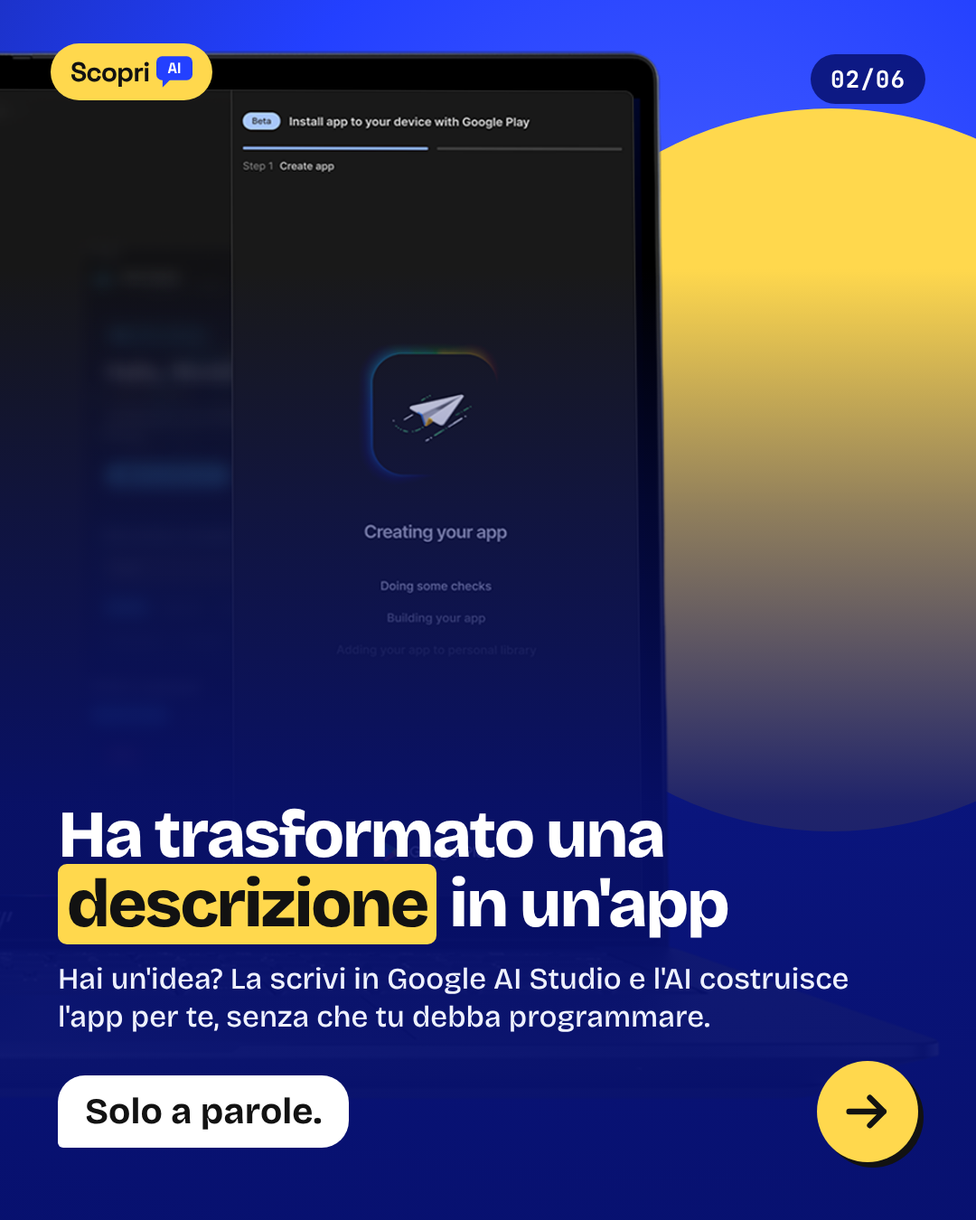
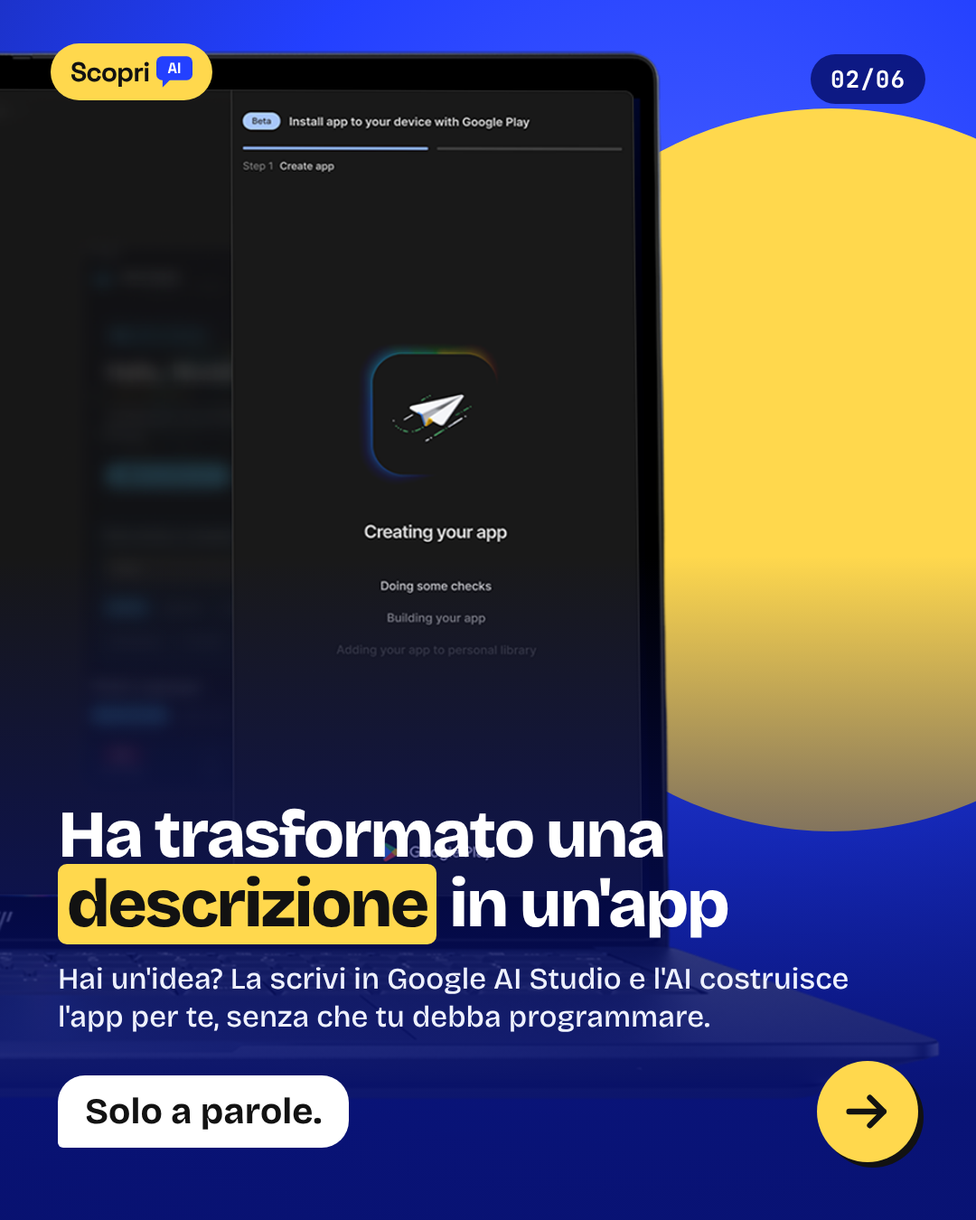
Slide Google Play: dissolvenza più in basso (versione del canvas) e orologio visibile
Claude-Session: https://claude.ai/code/session_01BmuNVeuFM4PWyoCHQz14QK

diff --git a/archivio/2026-10-15-news-lampo-google-play-app-ai/bozza/EB4-usa-18.dc.html b/archivio/2026-10-15-news-lampo-google-play-app-ai/bozza/EB4-usa-18.dc.html
@@ -11,7 +11,7 @@
 <link href="https://fonts.googleapis.com/css2?family=Space+Grotesk:wght@400;500;700&amp;family=Bricolage+Grotesque:wght@400;500;700;800&amp;family=JetBrains+Mono:wght@500;700&amp;display=swap" rel="stylesheet">
 <style>body{margin:0}</style>
 </helmet>
-<div style="width:1080px;height:1350px;position:relative;overflow:hidden;background:#2340FF;color:#FFFFFF;font-family:'Bricolage Grotesque',sans-serif;"><div style="position:absolute;left:0;top:0;width:1080px;height:1350px;overflow:hidden;background:radial-gradient(circle at 70% 30%, #4B63FF 0%, #2340FF 45%, #14238F 100%)"><div style="position:absolute;left:-300px;top:-100px;width:800px;height:800px;border-radius:50%;background:#FFD84D"></div><img src="img/PersonalApps_desktop_16x9_Static.png" alt="Google AI Studio che crea un'app, con la scritta Google Play" style="display:block;position:absolute;left:-2120px;top:140px;width:3648px;height:2052px;transform:rotate(0deg)"></div><div style="position:absolute;left:0;top:0;width:1080px;height:1350px;background:linear-gradient(to top, rgba(7,16,110,.97) 0%, rgba(7,16,110,.9) 34%, rgba(7,16,110,.45) 58%, rgba(7,16,110,0) 78%)"></div><div style="position:absolute;top:48px;left:56px;display:flex;background:#FFFFFF;padding:12px 22px;border-radius:999px"><div style="display:flex;align-items:center;gap:8px;font-size:30px;font-weight:700;letter-spacing:-1px;font-family:'Space Grotesk',sans-serif;color:#121212;">Scopri<svg width="40" height="35" viewBox="0 0 700 600" aria-hidden="true"><rect width="700" height="460" rx="110" fill="#2340FF"></rect><polygon points="120,440 120,600 280,440" fill="#2340FF"></polygon><text x="350" y="235" text-anchor="middle" dominant-baseline="central" font-family="Space Grotesk" font-weight="700" font-size="290" fill="#FFFFFF">AI</text></svg></div></div><div style="position:absolute;top:60px;right:56px;background:rgba(7,16,110,.85);padding:10px 22px;border-radius:999px"><div style="font-family:'JetBrains Mono',monospace;font-weight:700;font-size:26px;color:#FFFFFF;letter-spacing:1px">04/06</div></div><div style="position:absolute;left:64px;right:64px;bottom:64px"><div style="font-size:150px;font-weight:800;letter-spacing:-6px;line-height:.9;color:#FFD84D;margin-bottom:12px">18+ · USA</div><h2 style="margin:0;font-size:64px;font-weight:800;line-height:1.04;letter-spacing:-2.5px">Per ora è solo per <span style="background:#FFD84D;color:#121212;padding:0 10px;border-radius:10px;-webkit-box-decoration-break:clone;box-decoration-break:clone">maggiorenni negli USA</span></h2><p style="margin:22px 0 0;font-size:33px;line-height:1.28;font-weight:500;color:#EEF1FF;width:900px">All'inizio possono provarla soltanto gli adulti che vivono negli Stati Uniti. Per l'Italia non c'è ancora una data.</p><div style="display:flex;justify-content:space-between;align-items:center;margin-top:28px"><div style="background:#FFFFFF;color:#121212;padding:16px 30px;border-radius:30px 30px 30px 6px;font-size:40px;font-weight:700;white-space:nowrap;">Poi tocca a noi.</div><div style="width:112px;height:112px;border-radius:50%;background:#FFD84D;display:flex;align-items:center;justify-content:center;box-shadow:6px 6px 0 #121212"><svg width="56" height="56" viewBox="0 0 44 44" aria-hidden="true"><path d="M6 22h30M24 10l12 12-12 12" fill="none" stroke="#121212" stroke-width="5" stroke-linecap="round" stroke-linejoin="round"></path></svg></div></div></div></div>
+<div style="width:1080px;height:1350px;position:relative;overflow:hidden;background:#2340FF;color:#FFFFFF;font-family:'Bricolage Grotesque',sans-serif;"><div style="position:absolute;left:0;top:0;width:1080px;height:1350px;overflow:hidden;background:radial-gradient(circle at 70% 30%, #4B63FF 0%, #2340FF 45%, #14238F 100%)"><div style="position:absolute;left:-300px;top:-100px;width:800px;height:800px;border-radius:50%;background:#FFD84D"></div><img src="img/PersonalApps_desktop_16x9_Static.png" alt="Google AI Studio che crea un'app, con la scritta Google Play" style="display:block;position:absolute;left:-2120px;top:140px;width:3648px;height:2052px;transform:rotate(0deg)"></div><div style="position: absolute; left: 0px; top: 306px; width: 1080px; height: 1350px; background: linear-gradient(to top, rgba(7,16,110,.97) 0%, rgba(7,16,110,.9) 34%, rgba(7,16,110,.45) 58%, rgba(7,16,110,0) 78%)"></div><div style="position:absolute;top:48px;left:56px;display:flex;background:#FFFFFF;padding:12px 22px;border-radius:999px"><div style="display:flex;align-items:center;gap:8px;font-size:30px;font-weight:700;letter-spacing:-1px;font-family:'Space Grotesk',sans-serif;color:#121212;">Scopri<svg width="40" height="35" viewBox="0 0 700 600" aria-hidden="true"><rect width="700" height="460" rx="110" fill="#2340FF"></rect><polygon points="120,440 120,600 280,440" fill="#2340FF"></polygon><text x="350" y="235" text-anchor="middle" dominant-baseline="central" font-family="Space Grotesk" font-weight="700" font-size="290" fill="#FFFFFF">AI</text></svg></div></div><div style="position:absolute;top:60px;right:56px;background:rgba(7,16,110,.85);padding:10px 22px;border-radius:999px"><div style="font-family:'JetBrains Mono',monospace;font-weight:700;font-size:26px;color:#FFFFFF;letter-spacing:1px">04/06</div></div><div style="position:absolute;left:64px;right:64px;bottom:64px"><div style="font-size:150px;font-weight:800;letter-spacing:-6px;line-height:.9;color:#FFD84D;margin-bottom:12px">18+ · USA</div><h2 style="margin:0;font-size:64px;font-weight:800;line-height:1.04;letter-spacing:-2.5px">Per ora è solo per <span style="background:#FFD84D;color:#121212;padding:0 10px;border-radius:10px;-webkit-box-decoration-break:clone;box-decoration-break:clone">maggiorenni negli USA</span></h2><p style="margin:22px 0 0;font-size:33px;line-height:1.28;font-weight:500;color:#EEF1FF;width:900px">All'inizio possono provarla soltanto gli adulti che vivono negli Stati Uniti. Per l'Italia non c'è ancora una data.</p><div style="display:flex;justify-content:space-between;align-items:center;margin-top:28px"><div style="background:#FFFFFF;color:#121212;padding:16px 30px;border-radius:30px 30px 30px 6px;font-size:40px;font-weight:700;white-space:nowrap;">Poi tocca a noi.</div><div style="width:112px;height:112px;border-radius:50%;background:#FFD84D;display:flex;align-items:center;justify-content:center;box-shadow:6px 6px 0 #121212"><svg width="56" height="56" viewBox="0 0 44 44" aria-hidden="true"><path d="M6 22h30M24 10l12 12-12 12" fill="none" stroke="#121212" stroke-width="5" stroke-linecap="round" stroke-linejoin="round"></path></svg></div></div></div></div>
 </x-dc>
 <script type="text/x-dc" data-dc-script data-props='{"$preview":{"width":1080,"height":1350}}'>
 class Component extends DCLogic {

diff --git a/archivio/2026-10-15-news-lampo-google-play-app-ai/bozza/EB5-condivisione.dc.html b/archivio/2026-10-15-news-lampo-google-play-app-ai/bozza/EB5-condivisione.dc.html
@@ -11,7 +11,7 @@
 <link href="https://fonts.googleapis.com/css2?family=Space+Grotesk:wght@400;500;700&amp;family=Bricolage+Grotesque:wght@400;500;700;800&amp;family=JetBrains+Mono:wght@500;700&amp;display=swap" rel="stylesheet">
 <style>body{margin:0}</style>
 </helmet>
-<div style="width:1080px;height:1350px;position:relative;overflow:hidden;background:#FFD84D;color:#121212;font-family:'Bricolage Grotesque',sans-serif;"><div style="position:absolute;left:0;top:0;width:1080px;height:1350px;overflow:hidden;background:radial-gradient(circle at 70% 30%, #FFE680 0%, #FFD84D 50%, #F2BC1B 100%)"><div style="position:absolute;left:620px;top:-200px;width:800px;height:800px;border-radius:50%;background:#2340FF"></div><img src="img/PersonalApps_mobile_1X1_Static.png" alt="Lo smartphone con la libreria personale di Google Play" style="display:block;position:absolute;left:-324px;top:40px;width:1728px;height:1728px;transform:rotate(0deg)"></div><div style="position:absolute;left:0;top:0;width:1080px;height:1350px;background:linear-gradient(to top, rgba(255,216,77,.98) 0%, rgba(255,216,77,.96) 34%, rgba(255,216,77,.78) 58%, rgba(255,216,77,0) 78%)"></div><div style="position:absolute;top:48px;left:56px;display:flex;background:#FFFFFF;padding:12px 22px;border-radius:999px"><div style="display:flex;align-items:center;gap:8px;font-size:30px;font-weight:700;letter-spacing:-1px;font-family:'Space Grotesk',sans-serif;color:#121212;">Scopri<svg width="40" height="35" viewBox="0 0 700 600" aria-hidden="true"><rect width="700" height="460" rx="110" fill="#2340FF"></rect><polygon points="120,440 120,600 280,440" fill="#2340FF"></polygon><text x="350" y="235" text-anchor="middle" dominant-baseline="central" font-family="Space Grotesk" font-weight="700" font-size="290" fill="#FFFFFF">AI</text></svg></div></div><div style="position:absolute;top:60px;right:56px;background:#121212;padding:10px 22px;border-radius:999px"><div style="font-family:'JetBrains Mono',monospace;font-weight:700;font-size:26px;color:#FFFFFF;letter-spacing:1px">05/06</div></div><div style="position:absolute;left:64px;right:64px;bottom:64px"><div style="font-size:150px;font-weight:800;letter-spacing:-6px;line-height:.9;color:#2340FF;margin-bottom:12px">Presto</div><h2 style="margin:0;font-size:64px;font-weight:800;line-height:1.04;letter-spacing:-2.5px">Presto potrai <span style="background:#2340FF;color:#FFFFFF;padding:0 10px;border-radius:10px;-webkit-box-decoration-break:clone;box-decoration-break:clone">condividerla</span> con gli amici</h2><p style="margin:22px 0 0;font-size:33px;line-height:1.28;font-weight:500;color:#2A2A2A;width:900px">Google dice che la condivisione arriva nei prossimi mesi. Una data precisa non c'è ancora.</p><div style="display:flex;justify-content:space-between;align-items:center;margin-top:28px"><div style="background:#121212;color:#FFD84D;padding:16px 30px;border-radius:30px 30px 30px 6px;font-size:40px;font-weight:700;white-space:nowrap;">Nei prossimi mesi.</div><div style="width:112px;height:112px;border-radius:50%;background:#2340FF;display:flex;align-items:center;justify-content:center;box-shadow:6px 6px 0 #121212"><svg width="56" height="56" viewBox="0 0 44 44" aria-hidden="true"><path d="M6 22h30M24 10l12 12-12 12" fill="none" stroke="#FFFFFF" stroke-width="5" stroke-linecap="round" stroke-linejoin="round"></path></svg></div></div></div></div>
+<div style="width:1080px;height:1350px;position:relative;overflow:hidden;background:#FFD84D;color:#121212;font-family:'Bricolage Grotesque',sans-serif;"><div style="position:absolute;left:0;top:0;width:1080px;height:1350px;overflow:hidden;background:radial-gradient(circle at 70% 30%, #FFE680 0%, #FFD84D 50%, #F2BC1B 100%)"><div style="position:absolute;left:620px;top:-200px;width:800px;height:800px;border-radius:50%;background:#2340FF"></div><img src="img/PersonalApps_mobile_1X1_Static.png" alt="Lo smartphone con la libreria personale di Google Play" style="display:block;position:absolute;left:-324px;top:40px;width:1728px;height:1728px;transform:rotate(0deg)"></div><div style="position: absolute; left: 0px; top: 131px; width: 1080px; height: 1350px; background: linear-gradient(to top, rgba(255,216,77,.98) 0%, rgba(255,216,77,.96) 34%, rgba(255,216,77,.78) 58%, rgba(255,216,77,0) 78%)"></div><div style="position:absolute;top:48px;left:56px;display:flex;background:#FFFFFF;padding:12px 22px;border-radius:999px"><div style="display:flex;align-items:center;gap:8px;font-size:30px;font-weight:700;letter-spacing:-1px;font-family:'Space Grotesk',sans-serif;color:#121212;">Scopri<svg width="40" height="35" viewBox="0 0 700 600" aria-hidden="true"><rect width="700" height="460" rx="110" fill="#2340FF"></rect><polygon points="120,440 120,600 280,440" fill="#2340FF"></polygon><text x="350" y="235" text-anchor="middle" dominant-baseline="central" font-family="Space Grotesk" font-weight="700" font-size="290" fill="#FFFFFF">AI</text></svg></div></div><div style="position:absolute;top:60px;right:56px;background:#121212;padding:10px 22px;border-radius:999px"><div style="font-family:'JetBrains Mono',monospace;font-weight:700;font-size:26px;color:#FFFFFF;letter-spacing:1px">05/06</div></div><div style="position:absolute;left:64px;right:64px;bottom:64px"><div style="font-size:150px;font-weight:800;letter-spacing:-6px;line-height:.9;color:#2340FF;margin-bottom:12px">Presto</div><h2 style="margin:0;font-size:64px;font-weight:800;line-height:1.04;letter-spacing:-2.5px">Presto potrai <span style="background:#2340FF;color:#FFFFFF;padding:0 10px;border-radius:10px;-webkit-box-decoration-break:clone;box-decoration-break:clone">condividerla</span> con gli amici</h2><p style="margin:22px 0 0;font-size:33px;line-height:1.28;font-weight:500;color:#2A2A2A;width:900px">Google dice che la condivisione arriva nei prossimi mesi. Una data precisa non c'è ancora.</p><div style="display:flex;justify-content:space-between;align-items:center;margin-top:28px"><div style="background:#121212;color:#FFD84D;padding:16px 30px;border-radius:30px 30px 30px 6px;font-size:40px;font-weight:700;white-space:nowrap;">Nei prossimi mesi.</div><div style="width:112px;height:112px;border-radius:50%;background:#2340FF;display:flex;align-items:center;justify-content:center;box-shadow:6px 6px 0 #121212"><svg width="56" height="56" viewBox="0 0 44 44" aria-hidden="true"><path d="M6 22h30M24 10l12 12-12 12" fill="none" stroke="#FFFFFF" stroke-width="5" stroke-linecap="round" stroke-linejoin="round"></path></svg></div></div></div></div>
 </x-dc>
 <script type="text/x-dc" data-dc-script data-props='{"$preview":{"width":1080,"height":1350}}'>
 class Component extends DCLogic {

diff --git a/archivio/2026-10-15-news-lampo-google-play-app-ai/bozza/EB2-app.dc.html b/archivio/2026-10-15-news-lampo-google-play-app-ai/bozza/EB2-app.dc.html
@@ -11,7 +11,7 @@
 <link href="https://fonts.googleapis.com/css2?family=Space+Grotesk:wght@400;500;700&amp;family=Bricolage+Grotesque:wght@400;500;700;800&amp;family=JetBrains+Mono:wght@500;700&amp;display=swap" rel="stylesheet">
 <style>body{margin:0}</style>
 </helmet>
-<div style="width:1080px;height:1350px;position:relative;overflow:hidden;background:#2340FF;color:#FFFFFF;font-family:'Bricolage Grotesque',sans-serif;"><div style="position:absolute;left:0;top:0;width:1080px;height:1350px;overflow:hidden;background:radial-gradient(circle at 70% 30%, #4B63FF 0%, #2340FF 45%, #14238F 100%)"><div style="position:absolute;left:520px;top:120px;width:800px;height:800px;border-radius:50%;background:#FFD84D"></div><img src="img/PersonalApps_desktop_16x9_Static.png" alt="Google AI Studio che crea un'app, con la scritta Google Play" style="display:block;position:absolute;left:-1050px;top:40px;width:2100px;height:1181px;transform:rotate(0deg)"></div><div style="position:absolute;left:0;top:0;width:1080px;height:1350px;background:linear-gradient(to top, rgba(7,16,110,.97) 0%, rgba(7,16,110,.9) 34%, rgba(7,16,110,.45) 58%, rgba(7,16,110,0) 78%)"></div><div style="position:absolute;top:48px;left:56px;display:flex;background:#FFD84D;padding:12px 22px;border-radius:999px"><div style="display:flex;align-items:center;gap:8px;font-size:30px;font-weight:700;letter-spacing:-1px;font-family:'Space Grotesk',sans-serif;color:#121212;">Scopri<svg width="40" height="35" viewBox="0 0 700 600" aria-hidden="true"><rect width="700" height="460" rx="110" fill="#2340FF"></rect><polygon points="120,440 120,600 280,440" fill="#2340FF"></polygon><text x="350" y="235" text-anchor="middle" dominant-baseline="central" font-family="Space Grotesk" font-weight="700" font-size="290" fill="#FFFFFF">AI</text></svg></div></div><div style="position:absolute;top:60px;right:56px;background:rgba(7,16,110,.85);padding:10px 22px;border-radius:999px"><div style="font-family:'JetBrains Mono',monospace;font-weight:700;font-size:26px;color:#FFFFFF;letter-spacing:1px">02/06</div></div><div style="position:absolute;left:64px;right:64px;bottom:64px"><h2 style="margin:0;font-size:74px;font-weight:800;line-height:1.04;letter-spacing:-2.5px">Ha trasformato una <span style="background:#FFD84D;color:#121212;padding:0 10px;border-radius:10px;-webkit-box-decoration-break:clone;box-decoration-break:clone">descrizione</span> in un'app</h2><p style="margin:22px 0 0;font-size:33px;line-height:1.28;font-weight:500;color:#EEF1FF;width:900px">Hai un'idea? La scrivi in Google AI Studio e l'AI costruisce l'app per te, senza che tu debba programmare.</p><div style="display:flex;justify-content:space-between;align-items:center;margin-top:28px"><div style="background:#FFFFFF;color:#121212;padding:16px 30px;border-radius:30px 30px 30px 6px;font-size:40px;font-weight:700;white-space:nowrap;">Solo a parole.</div><div style="width:112px;height:112px;border-radius:50%;background:#FFD84D;display:flex;align-items:center;justify-content:center;box-shadow:6px 6px 0 #121212"><svg width="56" height="56" viewBox="0 0 44 44" aria-hidden="true"><path d="M6 22h30M24 10l12 12-12 12" fill="none" stroke="#121212" stroke-width="5" stroke-linecap="round" stroke-linejoin="round"></path></svg></div></div></div></div>
+<div style="width:1080px;height:1350px;position:relative;overflow:hidden;background:#2340FF;color:#FFFFFF;font-family:'Bricolage Grotesque',sans-serif;"><div style="position:absolute;left:0;top:0;width:1080px;height:1350px;overflow:hidden;background:radial-gradient(circle at 70% 30%, #4B63FF 0%, #2340FF 45%, #14238F 100%)"><div style="position:absolute;left:520px;top:120px;width:800px;height:800px;border-radius:50%;background:#FFD84D"></div><img src="img/PersonalApps_desktop_16x9_Static.png" alt="Google AI Studio che crea un'app, con la scritta Google Play" style="display:block;position:absolute;left:-1050px;top:40px;width:2100px;height:1181px;transform:rotate(0deg)"></div><div style="position: absolute; left: 0px; top: 318px; width: 1080px; height: 1350px; background: linear-gradient(to top, rgba(7,16,110,.97) 0%, rgba(7,16,110,.9) 34%, rgba(7,16,110,.45) 58%, rgba(7,16,110,0) 78%)"></div><div style="position:absolute;top:48px;left:56px;display:flex;background:#FFD84D;padding:12px 22px;border-radius:999px"><div style="display:flex;align-items:center;gap:8px;font-size:30px;font-weight:700;letter-spacing:-1px;font-family:'Space Grotesk',sans-serif;color:#121212;">Scopri<svg width="40" height="35" viewBox="0 0 700 600" aria-hidden="true"><rect width="700" height="460" rx="110" fill="#2340FF"></rect><polygon points="120,440 120,600 280,440" fill="#2340FF"></polygon><text x="350" y="235" text-anchor="middle" dominant-baseline="central" font-family="Space Grotesk" font-weight="700" font-size="290" fill="#FFFFFF">AI</text></svg></div></div><div style="position:absolute;top:60px;right:56px;background:rgba(7,16,110,.85);padding:10px 22px;border-radius:999px"><div style="font-family:'JetBrains Mono',monospace;font-weight:700;font-size:26px;color:#FFFFFF;letter-spacing:1px">02/06</div></div><div style="position:absolute;left:64px;right:64px;bottom:64px"><h2 style="margin:0;font-size:74px;font-weight:800;line-height:1.04;letter-spacing:-2.5px">Ha trasformato una <span style="background:#FFD84D;color:#121212;padding:0 10px;border-radius:10px;-webkit-box-decoration-break:clone;box-decoration-break:clone">descrizione</span> in un'app</h2><p style="margin:22px 0 0;font-size:33px;line-height:1.28;font-weight:500;color:#EEF1FF;width:900px">Hai un'idea? La scrivi in Google AI Studio e l'AI costruisce l'app per te, senza che tu debba programmare.</p><div style="display:flex;justify-content:space-between;align-items:center;margin-top:28px"><div style="background:#FFFFFF;color:#121212;padding:16px 30px;border-radius:30px 30px 30px 6px;font-size:40px;font-weight:700;white-space:nowrap;">Solo a parole.</div><div style="width:112px;height:112px;border-radius:50%;background:#FFD84D;display:flex;align-items:center;justify-content:center;box-shadow:6px 6px 0 #121212"><svg width="56" height="56" viewBox="0 0 44 44" aria-hidden="true"><path d="M6 22h30M24 10l12 12-12 12" fill="none" stroke="#121212" stroke-width="5" stroke-linecap="round" stroke-linejoin="round"></path></svg></div></div></div></div>
 </x-dc>
 <script type="text/x-dc" data-dc-script data-props='{"$preview":{"width":1080,"height":1350}}'>
 class Component extends DCLogic {

diff --git a/archivio/2026-10-15-news-lampo-google-play-app-ai/bozza/EB3-telefono.dc.html b/archivio/2026-10-15-news-lampo-google-play-app-ai/bozza/EB3-telefono.dc.html
@@ -11,7 +11,7 @@
 <link href="https://fonts.googleapis.com/css2?family=Space+Grotesk:wght@400;500;700&amp;family=Bricolage+Grotesque:wght@400;500;700;800&amp;family=JetBrains+Mono:wght@500;700&amp;display=swap" rel="stylesheet">
 <style>body{margin:0}</style>
 </helmet>
-<div style="width:1080px;height:1350px;position:relative;overflow:hidden;background:#FFD84D;color:#121212;font-family:'Bricolage Grotesque',sans-serif;"><div style="position:absolute;left:0;top:0;width:1080px;height:1350px;overflow:hidden;background:radial-gradient(circle at 70% 30%, #FFE680 0%, #FFD84D 50%, #F2BC1B 100%)"><div style="position:absolute;left:-300px;top:350px;width:760px;height:760px;border-radius:50%;background:#2340FF"></div><img src="img/PersonalApps_mobile_1X1_Static.png" alt="Lo smartphone con la libreria personale di Google Play" style="display:block;position:absolute;left:-480px;top:40px;width:1700px;height:1700px;transform:rotate(0deg)"></div><div style="position:absolute;left:0;top:0;width:1080px;height:1350px;background:linear-gradient(to top, rgba(255,216,77,.98) 0%, rgba(255,216,77,.96) 34%, rgba(255,216,77,.78) 58%, rgba(255,216,77,0) 78%)"></div><div style="position:absolute;top:48px;left:56px;display:flex;background:#FFFFFF;padding:12px 22px;border-radius:999px"><div style="display:flex;align-items:center;gap:8px;font-size:30px;font-weight:700;letter-spacing:-1px;font-family:'Space Grotesk',sans-serif;color:#121212;">Scopri<svg width="40" height="35" viewBox="0 0 700 600" aria-hidden="true"><rect width="700" height="460" rx="110" fill="#2340FF"></rect><polygon points="120,440 120,600 280,440" fill="#2340FF"></polygon><text x="350" y="235" text-anchor="middle" dominant-baseline="central" font-family="Space Grotesk" font-weight="700" font-size="290" fill="#FFFFFF">AI</text></svg></div></div><div style="position:absolute;top:60px;right:56px;background:#121212;padding:10px 22px;border-radius:999px"><div style="font-family:'JetBrains Mono',monospace;font-weight:700;font-size:26px;color:#FFFFFF;letter-spacing:1px">03/06</div></div><div style="position:absolute;left:64px;right:64px;bottom:64px"><h2 style="margin:0;font-size:74px;font-weight:800;line-height:1.04;letter-spacing:-2.5px">Ha messo l'app sul tuo <span style="background:#2340FF;color:#FFFFFF;padding:0 10px;border-radius:10px;-webkit-box-decoration-break:clone;box-decoration-break:clone">telefono</span></h2><p style="margin:22px 0 0;font-size:33px;line-height:1.28;font-weight:500;color:#2A2A2A;width:900px">L'app arriva in una sezione privata di Google Play: la vedi e la installi solo tu. Google non la controlla.</p><div style="display:flex;justify-content:space-between;align-items:center;margin-top:28px"><div style="background:#121212;color:#FFD84D;padding:16px 30px;border-radius:30px 30px 30px 6px;font-size:40px;font-weight:700;white-space:nowrap;">Solo tua.</div><div style="width:112px;height:112px;border-radius:50%;background:#2340FF;display:flex;align-items:center;justify-content:center;box-shadow:6px 6px 0 #121212"><svg width="56" height="56" viewBox="0 0 44 44" aria-hidden="true"><path d="M6 22h30M24 10l12 12-12 12" fill="none" stroke="#FFFFFF" stroke-width="5" stroke-linecap="round" stroke-linejoin="round"></path></svg></div></div></div></div>
+<div style="width:1080px;height:1350px;position:relative;overflow:hidden;background:#FFD84D;color:#121212;font-family:'Bricolage Grotesque',sans-serif;"><div style="position:absolute;left:0;top:0;width:1080px;height:1350px;overflow:hidden;background:radial-gradient(circle at 70% 30%, #FFE680 0%, #FFD84D 50%, #F2BC1B 100%)"><div style="position:absolute;left:-300px;top:350px;width:760px;height:760px;border-radius:50%;background:#2340FF"></div><img src="img/PersonalApps_mobile_1X1_Static.png" alt="Lo smartphone con la libreria personale di Google Play" style="display:block;position:absolute;left:-480px;top:40px;width:1700px;height:1700px;transform:rotate(0deg)"></div><div style="position: absolute; left: 0px; top: 311px; width: 1080px; height: 1350px; background: linear-gradient(to top, rgba(255,216,77,.98) 0%, rgba(255,216,77,.96) 34%, rgba(255,216,77,.78) 58%, rgba(255,216,77,0) 78%)"></div><div style="position:absolute;top:48px;left:56px;display:flex;background:#FFFFFF;padding:12px 22px;border-radius:999px"><div style="display:flex;align-items:center;gap:8px;font-size:30px;font-weight:700;letter-spacing:-1px;font-family:'Space Grotesk',sans-serif;color:#121212;">Scopri<svg width="40" height="35" viewBox="0 0 700 600" aria-hidden="true"><rect width="700" height="460" rx="110" fill="#2340FF"></rect><polygon points="120,440 120,600 280,440" fill="#2340FF"></polygon><text x="350" y="235" text-anchor="middle" dominant-baseline="central" font-family="Space Grotesk" font-weight="700" font-size="290" fill="#FFFFFF">AI</text></svg></div></div><div style="position:absolute;top:60px;right:56px;background:#121212;padding:10px 22px;border-radius:999px"><div style="font-family:'JetBrains Mono',monospace;font-weight:700;font-size:26px;color:#FFFFFF;letter-spacing:1px">03/06</div></div><div style="position:absolute;left:64px;right:64px;bottom:64px"><h2 style="margin:0;font-size:74px;font-weight:800;line-height:1.04;letter-spacing:-2.5px">Ha messo l'app sul tuo <span style="background:#2340FF;color:#FFFFFF;padding:0 10px;border-radius:10px;-webkit-box-decoration-break:clone;box-decoration-break:clone">telefono</span></h2><p style="margin:22px 0 0;font-size:33px;line-height:1.28;font-weight:500;color:#2A2A2A;width:900px">L'app arriva in una sezione privata di Google Play: la vedi e la installi solo tu. Google non la controlla.</p><div style="display:flex;justify-content:space-between;align-items:center;margin-top:28px"><div style="background:#121212;color:#FFD84D;padding:16px 30px;border-radius:30px 30px 30px 6px;font-size:40px;font-weight:700;white-space:nowrap;">Solo tua.</div><div style="width:112px;height:112px;border-radius:50%;background:#2340FF;display:flex;align-items:center;justify-content:center;box-shadow:6px 6px 0 #121212"><svg width="56" height="56" viewBox="0 0 44 44" aria-hidden="true"><path d="M6 22h30M24 10l12 12-12 12" fill="none" stroke="#FFFFFF" stroke-width="5" stroke-linecap="round" stroke-linejoin="round"></path></svg></div></div></div></div>
 </x-dc>
 <script type="text/x-dc" data-dc-script data-props='{"$preview":{"width":1080,"height":1350}}'>
 class Component extends DCLogic {

diff --git a/archivio/2026-10-15-news-lampo-google-play-app-ai/bozza/EB1-copertina.dc.html b/archivio/2026-10-15-news-lampo-google-play-app-ai/bozza/EB1-copertina.dc.html
@@ -11,7 +11,7 @@
 <link href="https://fonts.googleapis.com/css2?family=Space+Grotesk:wght@400;500;700&amp;family=Bricolage+Grotesque:wght@400;500;700;800&amp;family=JetBrains+Mono:wght@500;700&amp;display=swap" rel="stylesheet">
 <style>body{margin:0}</style>
 </helmet>
-<div style="width:1080px;height:1350px;position:relative;overflow:hidden;background:#F4F1EA;color:#121212;font-family:'Bricolage Grotesque',sans-serif;"><div style="position:absolute;left:0;top:0;width:1080px;height:1350px;overflow:hidden;background:radial-gradient(circle at 70% 30%, #FFFFFF 0%, #F4F1EA 50%, #E2DCCB 100%)"><div style="position:absolute;left:120px;top:90px;width:840px;height:840px;border-radius:50%;background:#2340FF"></div><img src="img/PersonalApps_desktop_16x9_Static.png" alt="Google AI Studio che crea un'app, con la scritta Google Play" style="display:block;position:absolute;left:-160px;top:250px;width:1400px;height:788px;transform:rotate(0deg)"></div><div style="position:absolute;left:0;top:0;width:1080px;height:1350px;background:linear-gradient(to top, rgba(244,241,234,.98) 0%, rgba(244,241,234,.96) 34%, rgba(244,241,234,.78) 58%, rgba(244,241,234,0) 78%)"></div><div style="position:absolute;top:48px;left:56px;display:flex;background:#FFD84D;padding:12px 22px;border-radius:999px"><div style="display:flex;align-items:center;gap:8px;font-size:30px;font-weight:700;letter-spacing:-1px;font-family:'Space Grotesk',sans-serif;color:#121212;">Scopri<svg width="40" height="35" viewBox="0 0 700 600" aria-hidden="true"><rect width="700" height="460" rx="110" fill="#2340FF"></rect><polygon points="120,440 120,600 280,440" fill="#2340FF"></polygon><text x="350" y="235" text-anchor="middle" dominant-baseline="central" font-family="Space Grotesk" font-weight="700" font-size="290" fill="#FFFFFF">AI</text></svg></div></div><div style="position:absolute;top:60px;right:56px;font-family:'JetBrains Mono',monospace;font-weight:700;font-size:26px;color:#FFD84D;letter-spacing:1px;background:#121212;padding:10px 22px;border-radius:999px">NEWS LAMPO</div><div style="position:absolute;left:64px;right:64px;bottom:64px"><h1 style="margin:0;font-size:104px;font-weight:800;line-height:1;letter-spacing:-4px">E se esistesse <span style="background:#FFD84D;color:#121212;padding:0 12px;border-radius:12px;-webkit-box-decoration-break:clone;box-decoration-break:clone">un'app fatta apposta per te</span>?</h1><p style="margin:26px 0 0;font-size:38px;line-height:1.25;color:#2A2A2A;font-weight:500;width:640px">Google Play ora ci prova. Per ora solo negli USA.</p></div><div style="display:flex;align-items:center;gap:12px;height:96px;box-sizing:border-box;padding:0 30px 0 36px;border-radius:999px;background:#2340FF;color:#FFFFFF;font-size:38px;font-weight:800;letter-spacing:-1px;position:absolute;right:64px;bottom:64px;box-shadow:8px 8px 0 #121212">Scorri<svg width="40" height="40" viewBox="0 0 44 44" aria-hidden="true"><path d="M6 22h30M24 10l12 12-12 12" fill="none" stroke="#FFFFFF" stroke-width="5" stroke-linecap="round" stroke-linejoin="round"></path></svg></div></div>
+<div style="width:1080px;height:1350px;position:relative;overflow:hidden;background:#F4F1EA;color:#121212;font-family:'Bricolage Grotesque',sans-serif;"><div style="position:absolute;left:0;top:0;width:1080px;height:1350px;overflow:hidden;background:radial-gradient(circle at 70% 30%, #FFFFFF 0%, #F4F1EA 50%, #E2DCCB 100%)"><div style="position:absolute;left:120px;top:90px;width:840px;height:840px;border-radius:50%;background:#2340FF"></div><img src="img/PersonalApps_desktop_16x9_Static.png" alt="Google AI Studio che crea un'app, con la scritta Google Play" style="display:block;position:absolute;left:-160px;top:250px;width:1400px;height:788px;transform:rotate(0deg)"></div><div style="position: absolute; left: 0px; top: 326px; width: 1080px; height: 1350px; background: linear-gradient(to top, rgba(244,241,234,.98) 0%, rgba(244,241,234,.96) 34%, rgba(244,241,234,.78) 58%, rgba(244,241,234,0) 78%)"></div><div style="position:absolute;top:48px;left:56px;display:flex;background:#FFD84D;padding:12px 22px;border-radius:999px"><div style="display:flex;align-items:center;gap:8px;font-size:30px;font-weight:700;letter-spacing:-1px;font-family:'Space Grotesk',sans-serif;color:#121212;">Scopri<svg width="40" height="35" viewBox="0 0 700 600" aria-hidden="true"><rect width="700" height="460" rx="110" fill="#2340FF"></rect><polygon points="120,440 120,600 280,440" fill="#2340FF"></polygon><text x="350" y="235" text-anchor="middle" dominant-baseline="central" font-family="Space Grotesk" font-weight="700" font-size="290" fill="#FFFFFF">AI</text></svg></div></div><div style="position:absolute;top:60px;right:56px;font-family:'JetBrains Mono',monospace;font-weight:700;font-size:26px;color:#FFD84D;letter-spacing:1px;background:#121212;padding:10px 22px;border-radius:999px">NEWS LAMPO</div><div style="position:absolute;left:64px;right:64px;bottom:64px"><h1 style="margin:0;font-size:104px;font-weight:800;line-height:1;letter-spacing:-4px">E se esistesse <span style="background:#FFD84D;color:#121212;padding:0 12px;border-radius:12px;-webkit-box-decoration-break:clone;box-decoration-break:clone">un'app fatta apposta per te</span>?</h1><p style="margin:26px 0 0;font-size:38px;line-height:1.25;color:#2A2A2A;font-weight:500;width:640px">Google Play ora ci prova. Per ora solo negli USA.</p></div><div style="display:flex;align-items:center;gap:12px;height:96px;box-sizing:border-box;padding:0 30px 0 36px;border-radius:999px;background:#2340FF;color:#FFFFFF;font-size:38px;font-weight:800;letter-spacing:-1px;position:absolute;right:64px;bottom:64px;box-shadow:8px 8px 0 #121212">Scorri<svg width="40" height="40" viewBox="0 0 44 44" aria-hidden="true"><path d="M6 22h30M24 10l12 12-12 12" fill="none" stroke="#FFFFFF" stroke-width="5" stroke-linecap="round" stroke-linejoin="round"></path></svg></div></div>
 </x-dc>
 <script type="text/x-dc" data-dc-script data-props='{"$preview":{"width":1080,"height":1350}}'>
 class Component extends DCLogic {
